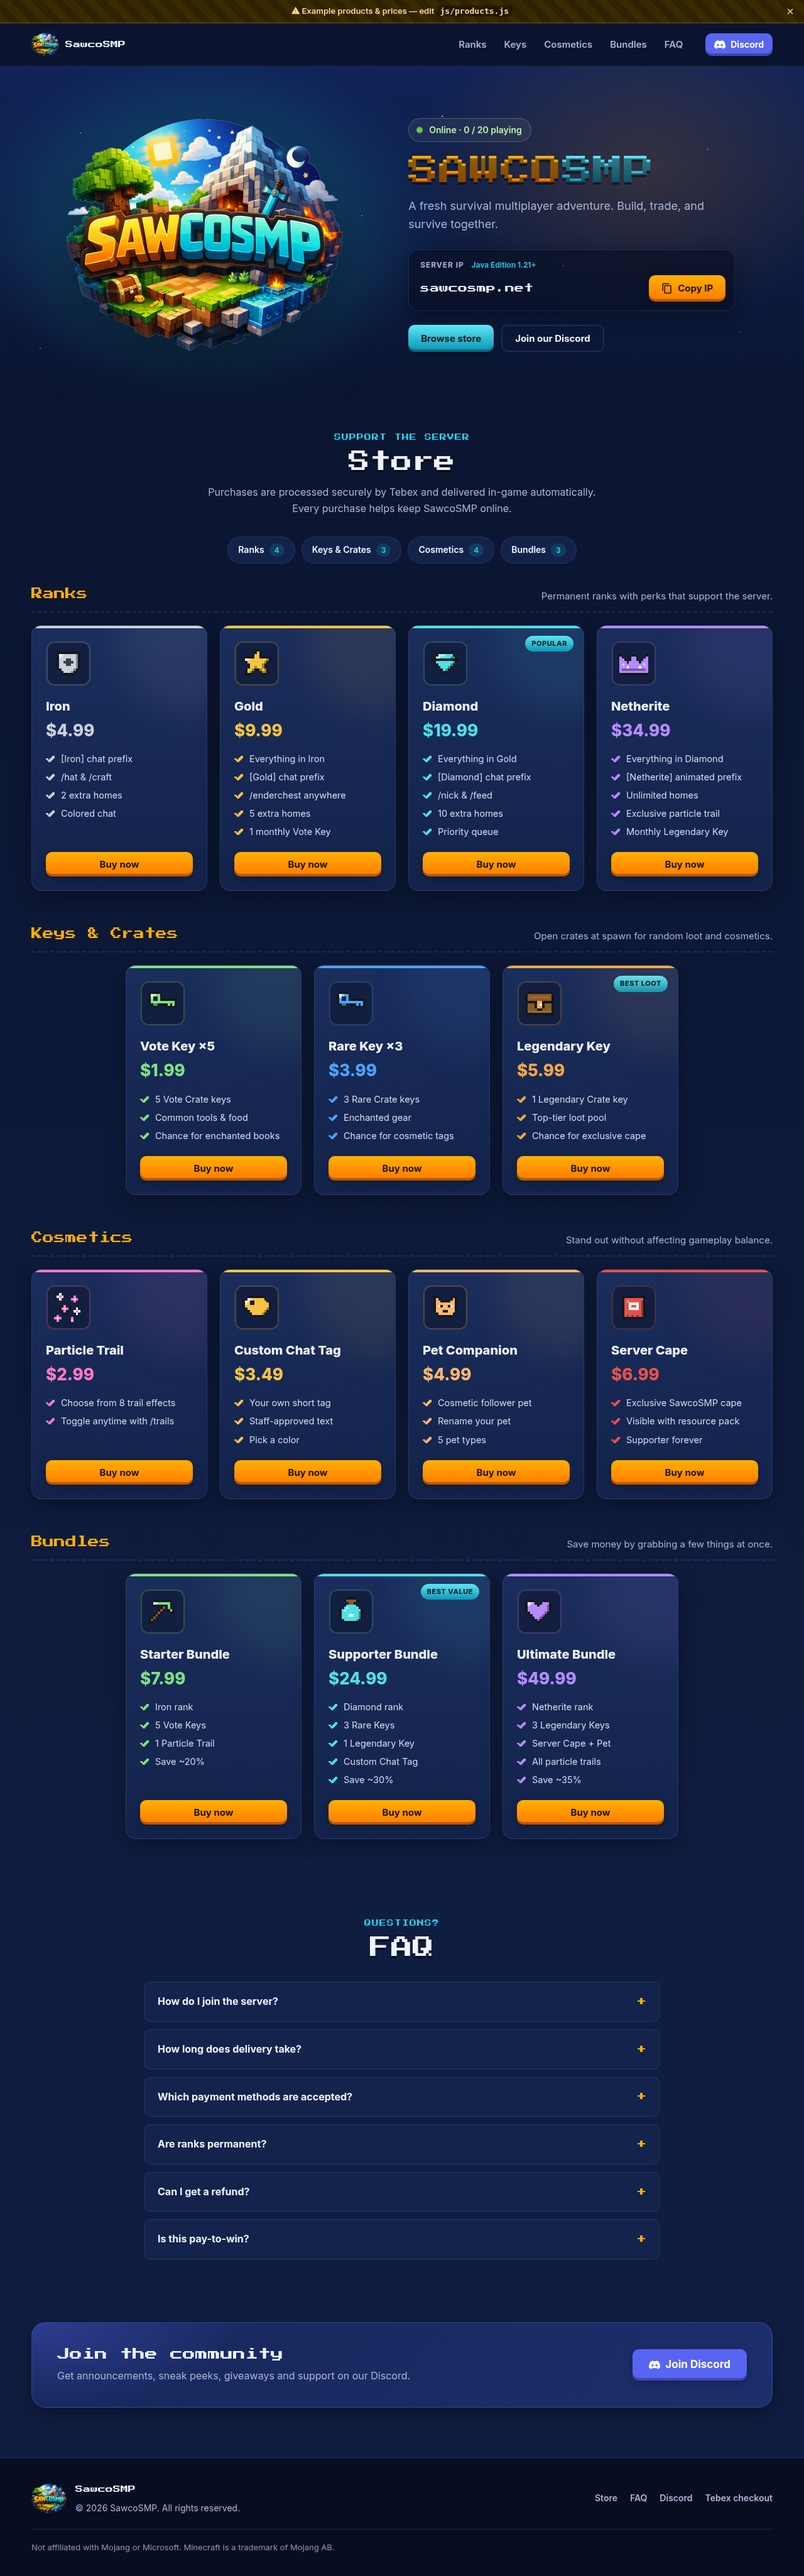
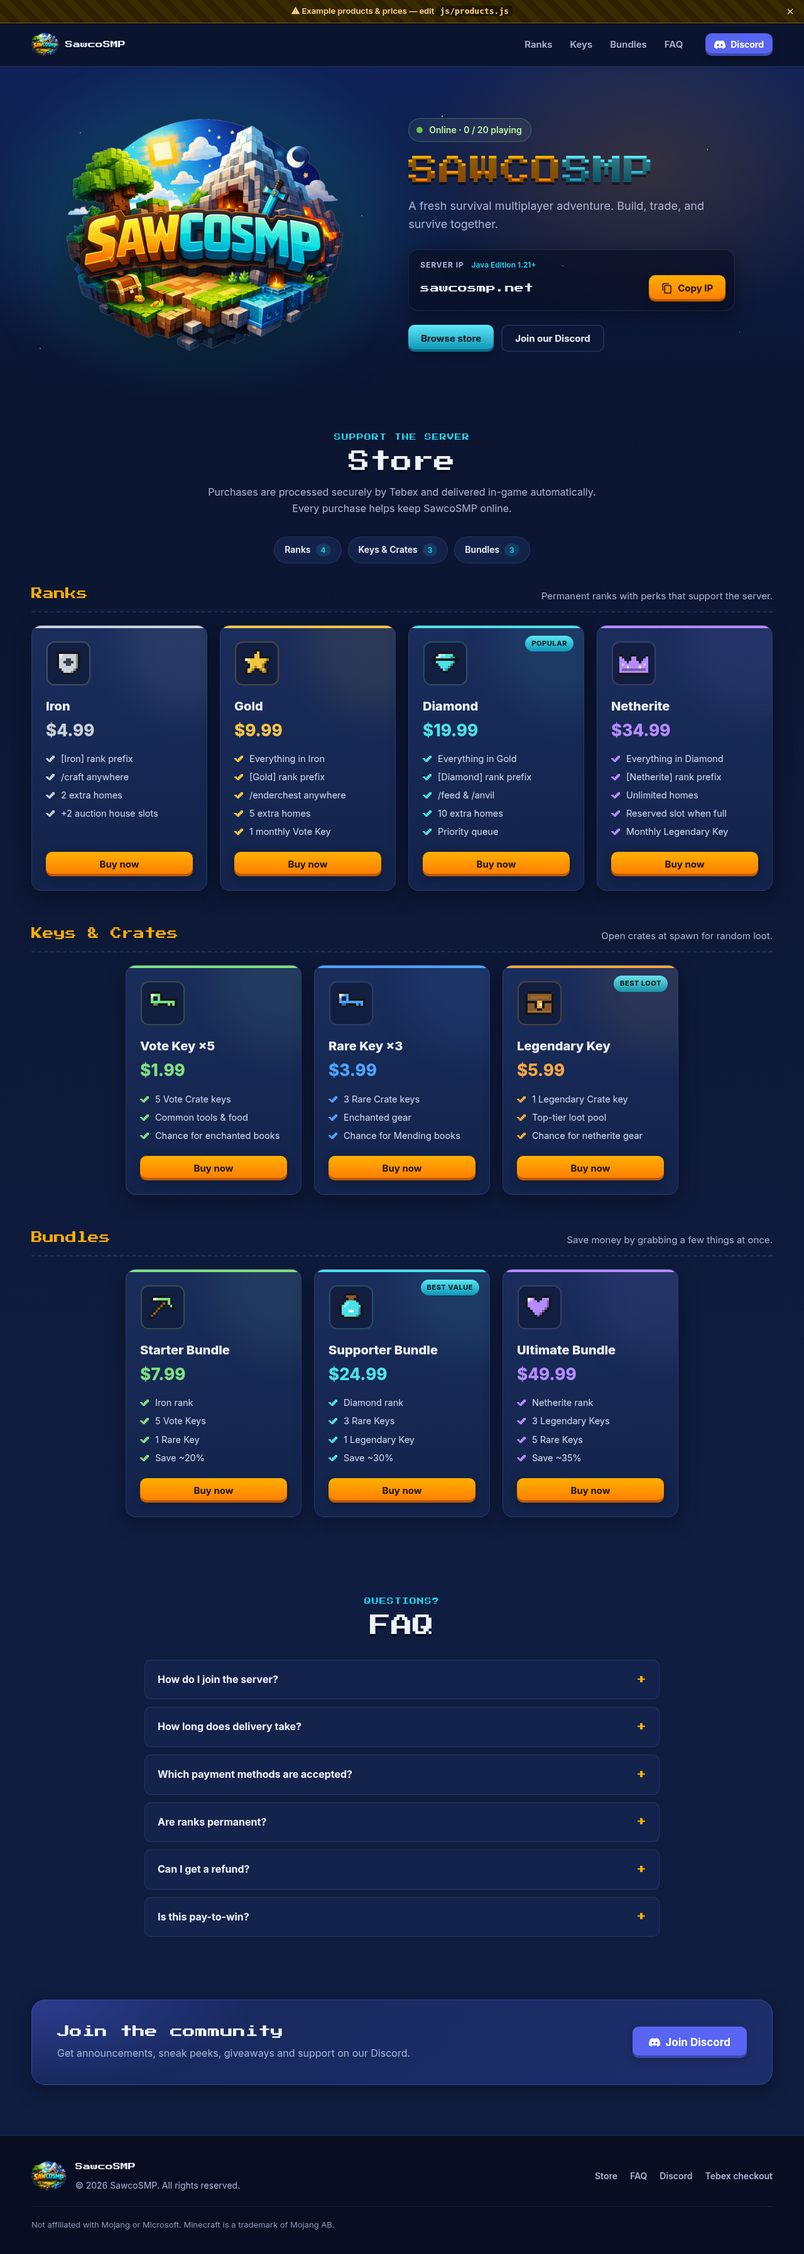
Remove Cosmetics category; replace cosmetic perks; README: Cloudflare Pages hosting

diff --git a/js/products.js b/js/products.js
@@ -7,7 +7,7 @@
      name      – product name
      price     – number (e.g. 4.99)
      icon      – one of: crown, sword, diamond, emerald, star, key, chest,
-                 cape, pet, particle, tag, bundle, pickaxe, heart, shield
+                 bundle, pickaxe, heart, shield
      color     – optional accent color for the card (any CSS color)
      badge     – optional ribbon text, e.g. "Popular" / "Best value"
      perks     – list of bullet points
@@ -22,26 +22,26 @@ window.STORE_PRODUCTS = [
     items: [
       {
         name: "Iron", price: 4.99, icon: "shield", color: "#c9d1d9",
-        perks: ["[Iron] chat prefix", "/hat & /craft", "2 extra homes", "Colored chat"]
+        perks: ["[Iron] rank prefix", "/craft anywhere", "2 extra homes", "+2 auction house slots"]
       },
       {
         name: "Gold", price: 9.99, icon: "star", color: "#f5c542",
-        perks: ["Everything in Iron", "[Gold] chat prefix", "/enderchest anywhere", "5 extra homes", "1 monthly Vote Key"]
+        perks: ["Everything in Iron", "[Gold] rank prefix", "/enderchest anywhere", "5 extra homes", "1 monthly Vote Key"]
       },
       {
         name: "Diamond", price: 19.99, icon: "diamond", color: "#4de1e6", badge: "Popular",
-        perks: ["Everything in Gold", "[Diamond] chat prefix", "/nick & /feed", "10 extra homes", "Priority queue"]
+        perks: ["Everything in Gold", "[Diamond] rank prefix", "/feed & /anvil", "10 extra homes", "Priority queue"]
       },
       {
         name: "Netherite", price: 34.99, icon: "crown", color: "#b58cff",
-        perks: ["Everything in Diamond", "[Netherite] animated prefix", "Unlimited homes", "Exclusive particle trail", "Monthly Legendary Key"]
+        perks: ["Everything in Diamond", "[Netherite] rank prefix", "Unlimited homes", "Reserved slot when full", "Monthly Legendary Key"]
       }
     ]
   },
   {
     id: "keys",
     title: "Keys & Crates",
-    subtitle: "Open crates at spawn for random loot and cosmetics.",
+    subtitle: "Open crates at spawn for random loot.",
     items: [
       {
         name: "Vote Key ×5", price: 1.99, icon: "key", color: "#7ee081",
@@ -49,34 +49,11 @@ window.STORE_PRODUCTS = [
       },
       {
         name: "Rare Key ×3", price: 3.99, icon: "key", color: "#4da3ff",
-        perks: ["3 Rare Crate keys", "Enchanted gear", "Chance for cosmetic tags"]
+        perks: ["3 Rare Crate keys", "Enchanted gear", "Chance for Mending books"]
       },
       {
         name: "Legendary Key", price: 5.99, icon: "chest", color: "#f5a742", badge: "Best loot",
-        perks: ["1 Legendary Crate key", "Top-tier loot pool", "Chance for exclusive cape"]
-      }
-    ]
-  },
-  {
-    id: "cosmetics",
-    title: "Cosmetics",
-    subtitle: "Stand out without affecting gameplay balance.",
-    items: [
-      {
-        name: "Particle Trail", price: 2.99, icon: "particle", color: "#ff7ac6",
-        perks: ["Choose from 8 trail effects", "Toggle anytime with /trails"]
-      },
-      {
-        name: "Custom Chat Tag", price: 3.49, icon: "tag", color: "#f5c542",
-        perks: ["Your own short tag", "Staff-approved text", "Pick a color"]
-      },
-      {
-        name: "Pet Companion", price: 4.99, icon: "pet", color: "#ffb86b",
-        perks: ["Cosmetic follower pet", "Rename your pet", "5 pet types"]
-      },
-      {
-        name: "Server Cape", price: 6.99, icon: "cape", color: "#e5534b",
-        perks: ["Exclusive SawcoSMP cape", "Visible with resource pack", "Supporter forever"]
+        perks: ["1 Legendary Crate key", "Top-tier loot pool", "Chance for netherite gear"]
       }
     ]
   },
@@ -87,15 +64,15 @@ window.STORE_PRODUCTS = [
     items: [
       {
         name: "Starter Bundle", price: 7.99, icon: "pickaxe", color: "#7ee081",
-        perks: ["Iron rank", "5 Vote Keys", "1 Particle Trail", "Save ~20%"]
+        perks: ["Iron rank", "5 Vote Keys", "1 Rare Key", "Save ~20%"]
       },
       {
         name: "Supporter Bundle", price: 24.99, icon: "bundle", color: "#4de1e6", badge: "Best value",
-        perks: ["Diamond rank", "3 Rare Keys", "1 Legendary Key", "Custom Chat Tag", "Save ~30%"]
+        perks: ["Diamond rank", "3 Rare Keys", "1 Legendary Key", "Save ~30%"]
       },
       {
         name: "Ultimate Bundle", price: 49.99, icon: "heart", color: "#b58cff",
-        perks: ["Netherite rank", "3 Legendary Keys", "Server Cape + Pet", "All particle trails", "Save ~35%"]
+        perks: ["Netherite rank", "3 Legendary Keys", "5 Rare Keys", "Save ~35%"]
       }
     ]
   }

diff --git a/index.html b/index.html
@@ -3,11 +3,11 @@
 <head>
   <meta charset="utf-8">
   <meta name="viewport" content="width=device-width, initial-scale=1">
-  <title>SawcoSMP Store — Ranks, Keys, Cosmetics &amp; Bundles</title>
-  <meta name="description" content="Official store for SawcoSMP, a Minecraft survival multiplayer server. Support the server with ranks, crate keys, cosmetics and bundles.">
+  <title>SawcoSMP Store — Ranks, Keys &amp; Bundles</title>
+  <meta name="description" content="Official store for SawcoSMP, a Minecraft survival multiplayer server. Support the server with ranks, crate keys and bundles.">
   <meta name="theme-color" content="#0B1530">
   <meta property="og:title" content="SawcoSMP Store">
-  <meta property="og:description" content="Ranks, crate keys, cosmetics and bundles for the SawcoSMP Minecraft server.">
+  <meta property="og:description" content="Ranks, crate keys and bundles for the SawcoSMP Minecraft server.">
   <meta property="og:image" content="assets/logo-512.png">
   <link rel="icon" href="favicon.ico" sizes="any">
   <link rel="icon" type="image/png" href="assets/favicon-64.png">
@@ -35,7 +35,6 @@
       <nav class="nav__links" aria-label="Main">
         <a href="#ranks">Ranks</a>
         <a href="#keys">Keys</a>
-        <a href="#cosmetics">Cosmetics</a>
         <a href="#bundles">Bundles</a>
         <a href="#faq">FAQ</a>
       </nav>
@@ -125,7 +124,7 @@
         </details>
         <details class="faq__item">
           <summary>Is this pay-to-win?</summary>
-          <p>No. Perks focus on convenience and cosmetics so survival stays fair for everyone. Crate keys can also be earned for free by voting.</p>
+          <p>No. Perks focus on convenience and quality-of-life, so survival stays fair for everyone. Crate keys can also be earned for free by voting.</p>
         </details>
       </div>
     </section>

diff --git a/js/icons.js b/js/icons.js
@@ -115,62 +115,6 @@ window.PIXEL_ICONS = (function () {
       "............",
       "............"
     ],
-    cape: [
-      "............",
-      ".kkkkkkkkkk.",
-      ".kaaaaaaaak.",
-      ".kalaaaaadk.",
-      ".kaawwwwadk.",
-      ".kaawaawadk.",
-      ".kaawwwwadk.",
-      ".kaaaaaaadk.",
-      ".kaaaaaaadk.",
-      ".kadadadadk.",
-      ".kk.k.k.kk..",
-      "............"
-    ],
-    pet: [
-      "............",
-      ".kk......kk.",
-      ".kak....kak.",
-      ".kaakkkkaak.",
-      ".kaaaaaaaak.",
-      ".kawkaakwak.",
-      ".kaaaaaaaak.",
-      ".kaaakkaaak.",
-      "..kaaaaaak..",
-      "...kkkkkk...",
-      "............",
-      "............"
-    ],
-    particle: [
-      "..w.........",
-      ".waw....a...",
-      "..w....ala..",
-      "........a...",
-      "....k.......",
-      "...kak......",
-      "..kalak..w..",
-      "...kak..waw.",
-      "....k....w..",
-      ".a..........",
-      "ala....a....",
-      ".a.....l....",
-    ],
-    tag: [
-      "............",
-      "..kkkkkkk...",
-      ".kwlaaaaak..",
-      "kwlkkaaaaak.",
-      "klakkaaaaaak",
-      "kaaaaaaaaaak",
-      ".kaaaaaaaadk",
-      "..kaaaaaadk.",
-      "...kaaaadk..",
-      "....kkkkk...",
-      "............",
-      "............"
-    ],
     bundle: [
       "....kkkk....",
       "...kbbbbk...",

diff --git a/css/style.css b/css/style.css
@@ -306,9 +306,9 @@ code { font-family: ui-monospace, SFMono-Regular, Menlo, monospace; }
   .hero__tagline { font-size: 16px; }
   .ip-box__row .btn { width: 100%; }
   .hero__cta .btn { flex: 1 1 100%; }
-  .chips { top: 72px; gap: 8px; flex-wrap: nowrap; overflow-x: auto; justify-content: flex-start; padding-bottom: 4px; margin-inline: -14px; padding-inline: 14px; scrollbar-width: none; }
-  .chips::-webkit-scrollbar { display: none; }
-  .chip { flex: none; }
+  .chips { top: 72px; gap: 8px; flex-wrap: wrap; justify-content: center; }
+  .chip { padding: 8px 14px; font-size: 13.5px; }
+  .chip span { display: none; }
   /* product rows become swipeable carousels on phones */
   .grid { flex-wrap: nowrap; justify-content: flex-start; overflow-x: auto; scroll-snap-type: x mandatory; gap: 14px;
           margin-inline: -14px; padding: 8px 14px 18px; scroll-padding-inline: 14px; scrollbar-width: none; }

diff --git a/README.md b/README.md
@@ -1,6 +1,6 @@
 # SawcoSMP Store
 
-A fast, static web store for the **SawcoSMP** Minecraft server. Plain HTML/CSS/vanilla JS with no build step, so it runs on GitHub Pages for free.
+A fast, static web store for the **SawcoSMP** Minecraft server. Plain HTML/CSS/vanilla JS with no build step, so it can be hosted for free on Cloudflare Pages.
 
 > ⚠ All products and prices in `js/products.js` are **example data**. The Tebex and Discord links are **placeholders**.
 
@@ -16,8 +16,8 @@ js/main.js          Rendering, Copy IP, live server status (usually no edits nee
 assets/logo.png     Full-size logo (transparent PNG)
 assets/logo-512.png Optimized logo used on the page
 assets/favicon-64.png, assets/icon-192.png, assets/apple-touch-icon.png, favicon.ico
-CNAME               Custom domain for GitHub Pages (sawcosmp.net)
-.nojekyll           Tells GitHub Pages to serve files as-is
+CNAME               GitHub Pages domain file (unused on Cloudflare Pages, harmless)
+.nojekyll           GitHub Pages helper (harmless)
 screens/            Preview screenshots (desktop.png, mobile.png)
 ```
 
@@ -38,17 +38,17 @@ showExampleNotice: true,                     // set to false to hide the yellow 
 The online/player-count badge uses `https://api.mcsrvstat.us/3/<serverIp>`. If the server is offline or the API can't be reached, it shows "Server offline" or "Status unavailable" instead of breaking.
 
 ### Products and prices
-Open **`js/products.js`**. It has four categories (`ranks`, `keys`, `cosmetics`, `bundles`), and each one holds a list of items:
+Open **`js/products.js`**. It has three categories (`ranks`, `keys`, `bundles`), and each one holds a list of items:
 
 ```js
 {
   name: "Diamond",
   price: 19.99,
-  icon: "diamond",        // crown, sword, diamond, emerald, star, key, chest, cape,
-                          // pet, particle, tag, bundle, pickaxe, heart, shield
+  icon: "diamond",        // crown, sword, diamond, emerald, star, key, chest,
+                          // bundle, pickaxe, heart, shield
   color: "#4de1e6",       // card accent color (hex)
   badge: "Popular",       // optional ribbon
-  perks: ["Everything in Gold", "/nick & /feed"],
+  perks: ["Everything in Gold", "/feed & /anvil"],
   tebexPath: "/package/123456"   // optional: links straight to that Tebex package
 }
 ```
@@ -71,33 +71,24 @@ python3 -m http.server 8000
 # open http://localhost:8000
 ```
 
-## Publish on GitHub Pages
+## Hosting on Cloudflare Pages
 
-1. Create a GitHub repository (for example `sawcosmp-store`) and push this folder to the `main` branch.
-2. In the repo, go to **Settings → Pages**.
-3. Under **Build and deployment**, choose **Source: Deploy from a branch**, **Branch: `main`**, folder **`/ (root)`**, then click **Save**.
-4. After a minute or so the site is live at `https://<username>.github.io/<repo>/`, or at your custom domain (see below).
+The site is plain static files with no build step. To deploy it:
 
-## Custom domain (Cloudflare)
+1. In the Cloudflare dashboard, go to **Workers & Pages → Create → Pages → Connect to Git**.
+2. Choose the GitHub repo **`kingisking-king/sawcosmp-store`**. Production branch: **`main`**.
+3. Build settings:
+   - **Framework preset:** None
+   - **Build command:** *(leave empty)*
+   - **Build output directory:** `/`
+4. Click **Save and Deploy**. You get a `*.pages.dev` URL right away, and every push to `main` redeploys automatically.
+5. Open the Pages project → **Custom domains → Set up a custom domain**, and enter **`sawcosmp.net`** (add `www.sawcosmp.net` too if you want). The domain's DNS is already on Cloudflare, so the required records and the HTTPS certificate are created automatically. The apex domain works without any manual A records.
 
-The `CNAME` file already contains `sawcosmp.net`, so GitHub Pages will serve the site on the apex domain. In **Settings → Pages → Custom domain**, make sure it says `sawcosmp.net`.
+(The `CNAME` file in the repo is only used by GitHub Pages. Cloudflare Pages ignores it, so it's harmless.)
 
-In the Cloudflare dashboard, go to **sawcosmp.net → DNS → Records** and add:
+### Minecraft server DNS: letting players join with `sawcosmp.net`
 
-| Type  | Name  | Content                      | Proxy status |
-|-------|-------|------------------------------|--------------|
-| A     | `@`   | `185.199.108.153`            | DNS only (grey cloud) |
-| A     | `@`   | `185.199.109.153`            | DNS only (grey cloud) |
-| A     | `@`   | `185.199.110.153`            | DNS only (grey cloud) |
-| A     | `@`   | `185.199.111.153`            | DNS only (grey cloud) |
-| CNAME | `www` | `kingisking-king.github.io`  | DNS only (grey cloud) |
-
-- Leave these records as **DNS only (grey cloud)** until GitHub finishes issuing the HTTPS certificate. Then turn on **Enforce HTTPS** in Settings → Pages. After that, turning on Cloudflare's proxy (orange cloud) is optional. If you do turn it on, set Cloudflare **SSL/TLS** mode to **Full**.
-- Optional: add AAAA records for IPv6 (`2606:50c0:8000::153`, `2606:50c0:8001::153`, `2606:50c0:8002::153`, `2606:50c0:8003::153`).
-
-### Letting players join with `sawcosmp.net`
-
-The apex `sawcosmp.net` now points at GitHub Pages (the website), so the Minecraft server needs **its own hostname** plus an **SRV record**. Minecraft Java looks up the SRV record first, so players can still type `sawcosmp.net`:
+The apex `sawcosmp.net` points at Cloudflare Pages (the website), so the Minecraft server needs **its own hostname** plus an **SRV record**. Minecraft Java looks up the SRV record first, so players can still type `sawcosmp.net`:
 
 | Type | Name                    | Content / Target                                   | Proxy status |
 |------|-------------------------|----------------------------------------------------|--------------|
